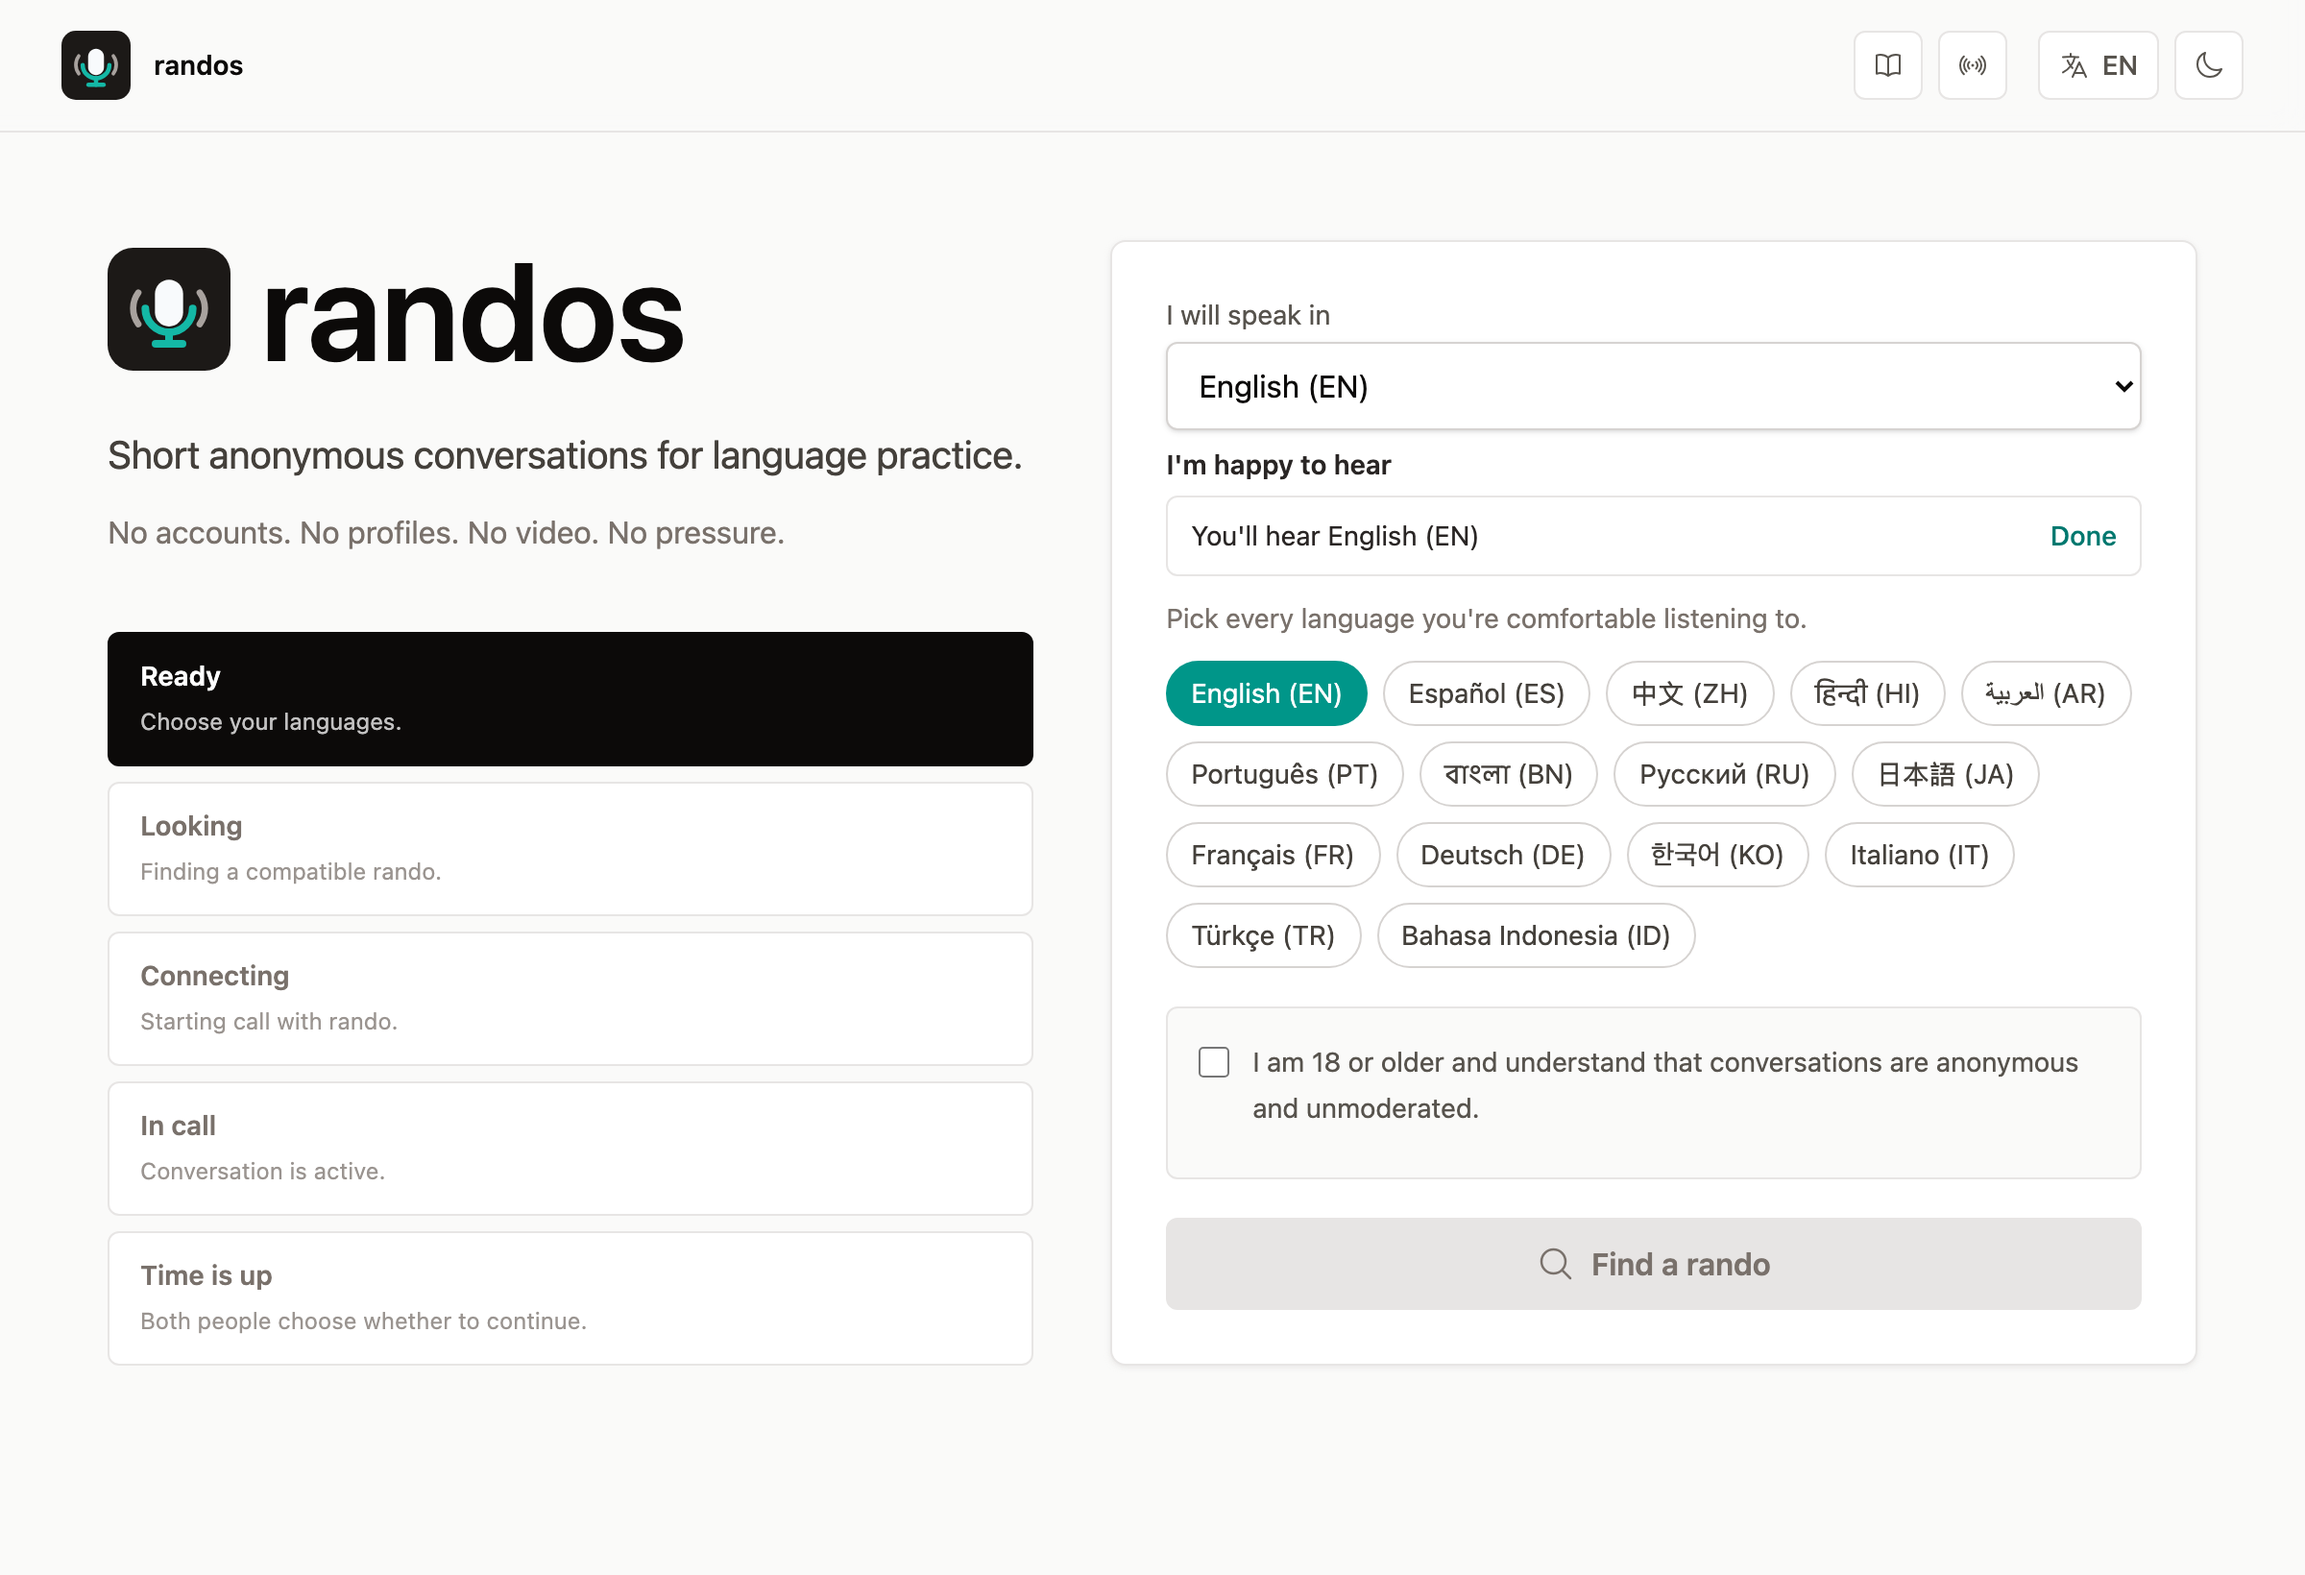
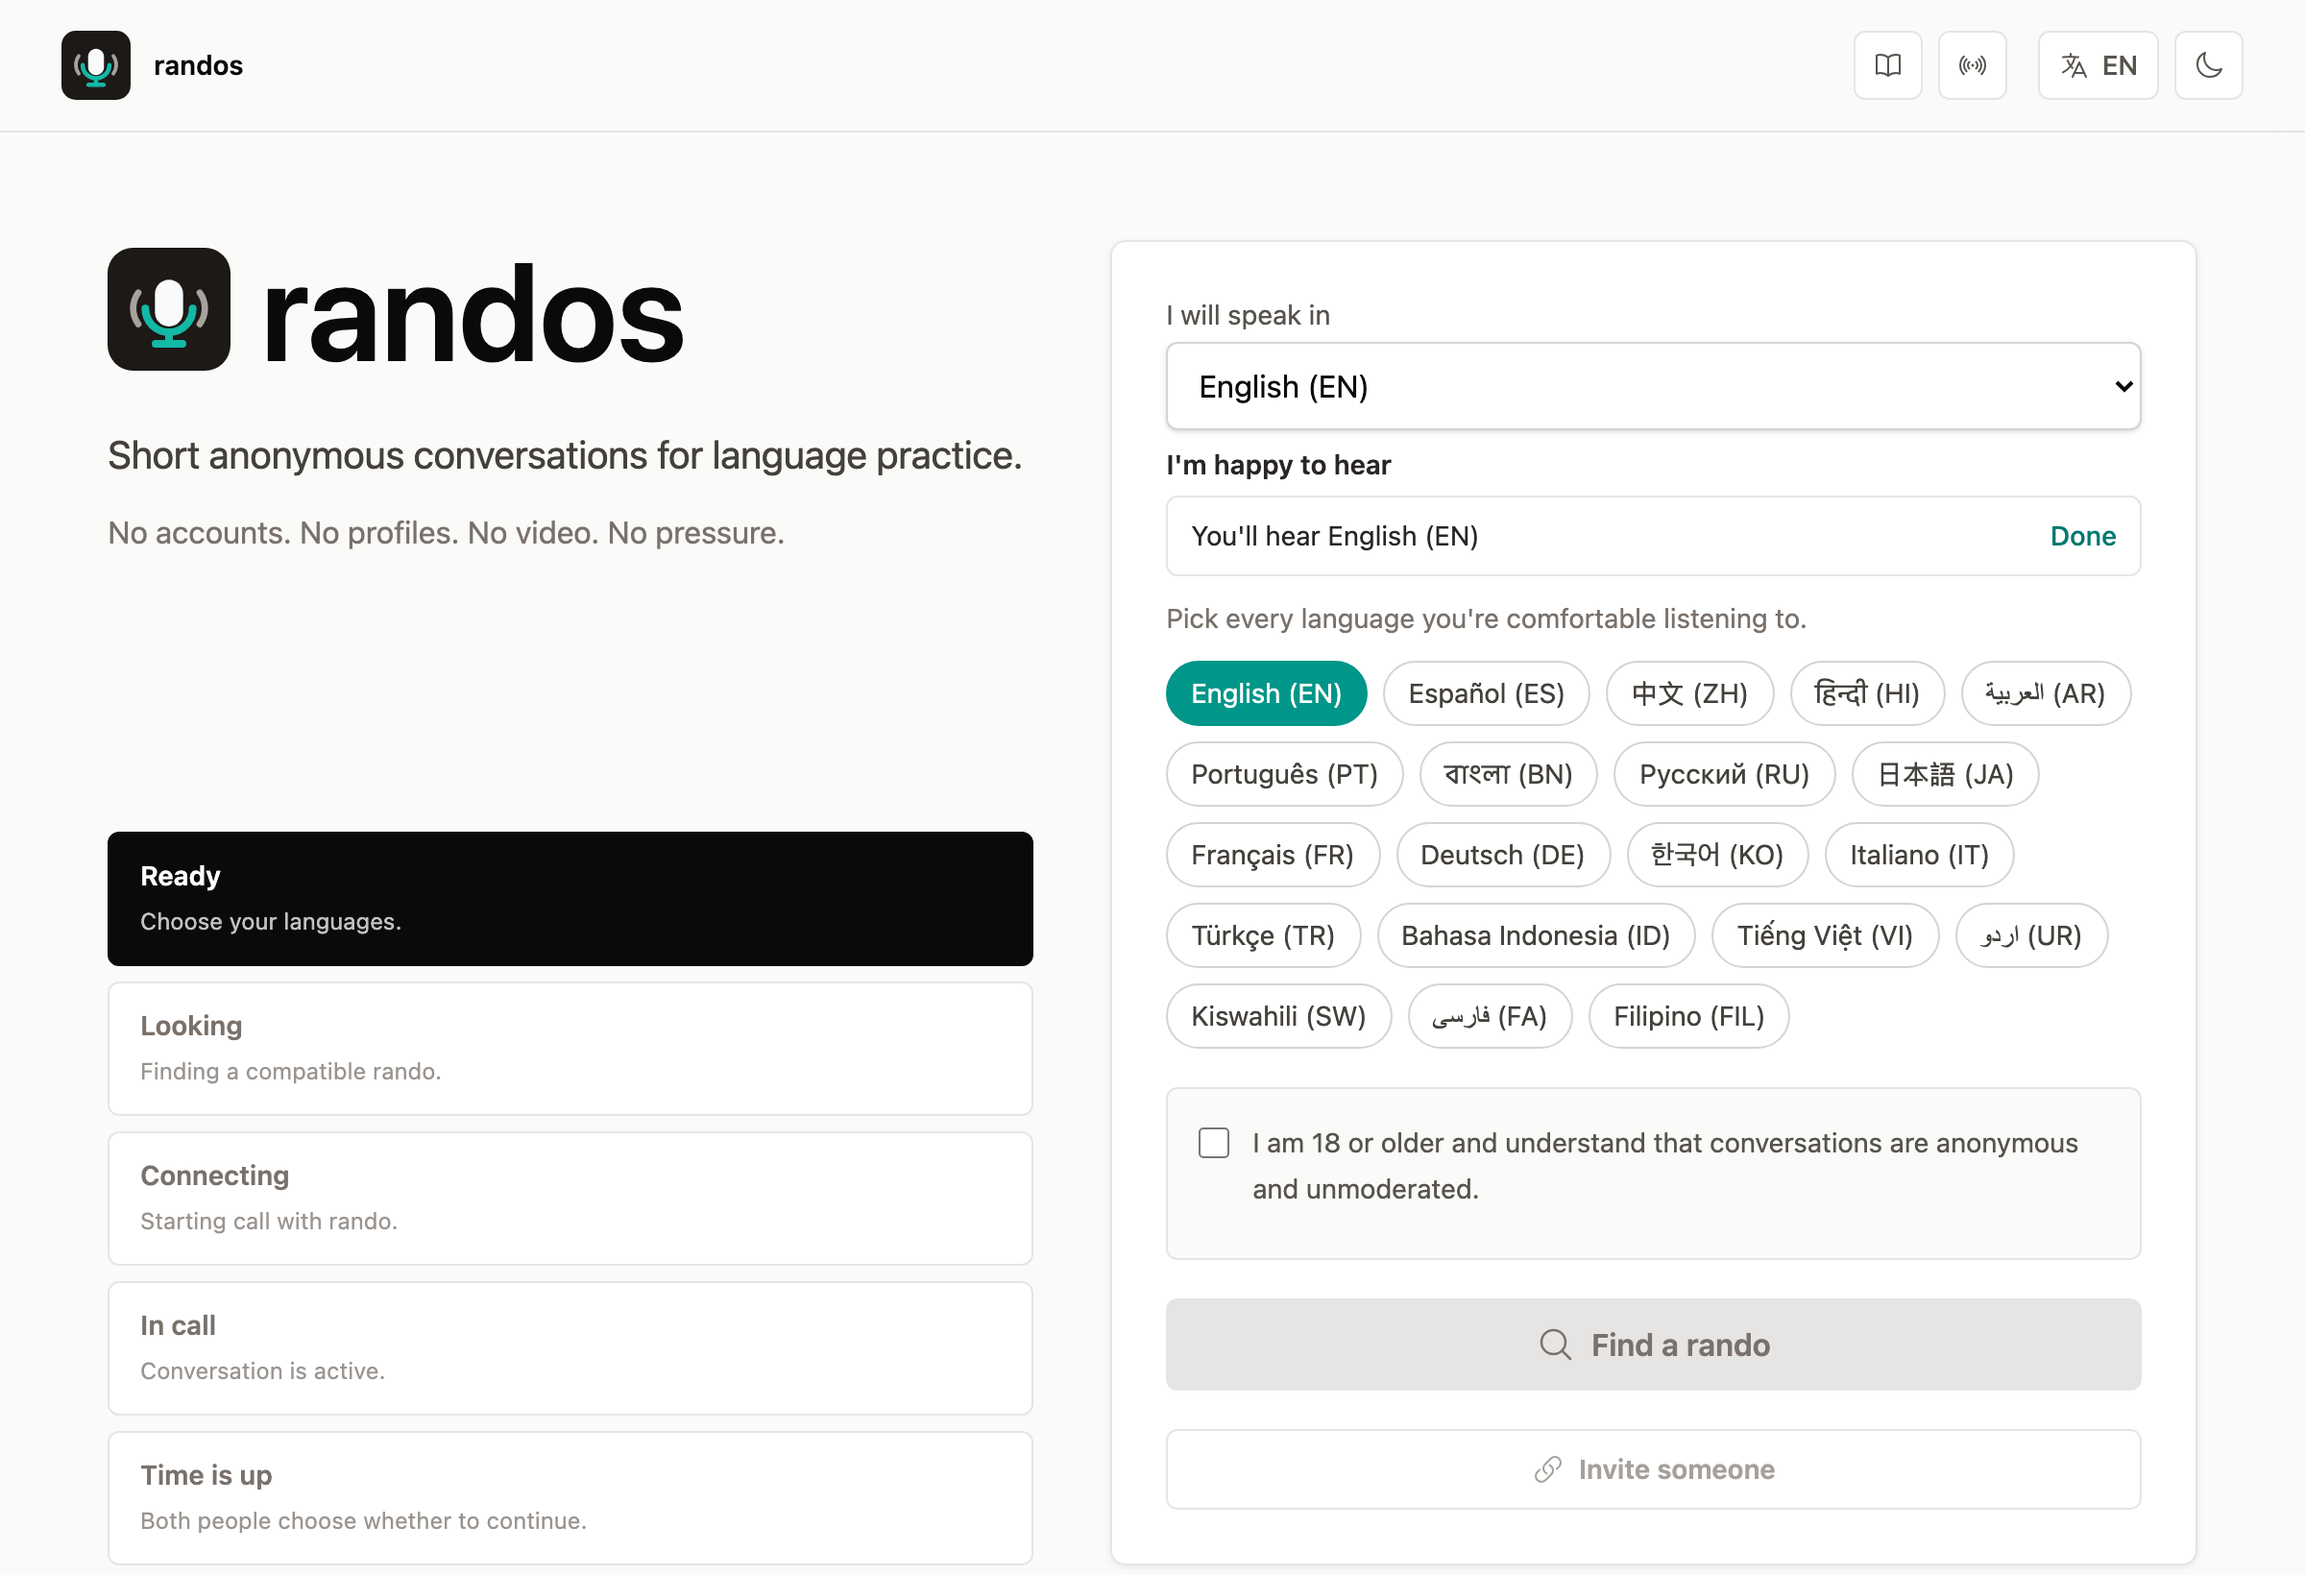
Quality pass 3: README screenshots with invitations; the invitation smoke checks teardown
- just screenshots adds the website's and the TUI's inviting screens; the
  links name randos.slowinput.org (PHX_HOST, which dev now honours for
  the links it builds).
- The TUI in the tape gets fresh English settings (RANDOS_TUI_SETTINGS,
  dev only): it had read the developer's own file, in Hindi with Spanish
  ticked, so its keys unticked them and no call was shot.
- call_smoke: after an invitation call both mics are released (obligation
  5) and the one who didn't end it is told.

diff --git a/README.md b/README.md
@@ -46,6 +46,11 @@ one-time link to send them (it works for 15 minutes); whoever opens it
 joins a call with you, the same ten minutes and the same vote, and you
 both go back to the form afterwards, never to a stranger.
 
+<picture>
+  <source media="(prefers-color-scheme: dark)" srcset="docs/assets/web-invite-dark.png">
+  <img alt="Inviting someone on the website: a one-time link to copy and send, with how long it keeps working and a way to cancel it" src="docs/assets/web-invite-light.png">
+</picture>
+
 That's all there is. Nothing about the call is kept. The site speaks
 all 20 languages, with a switcher in the header. Its translations are
 machine-made, so
@@ -84,6 +89,9 @@ desktop distributions have).
   <tr>
     <td><img alt="The terminal client's start screen: choose the language you'll speak and the one you want to hear" src="docs/assets/tui-idle.png"></td>
     <td><img alt="A call in the terminal: your voice and your rando's as two bar meters, connected directly, 9:54 remaining" src="docs/assets/tui-call.png"></td>
+  </tr>
+  <tr>
+    <td colspan="2"><img alt="Inviting someone from the terminal: the one-time link on a line of its own, with the time it has left; y copies it" src="docs/assets/tui-invite.png"></td>
   </tr>
 </table>
 
